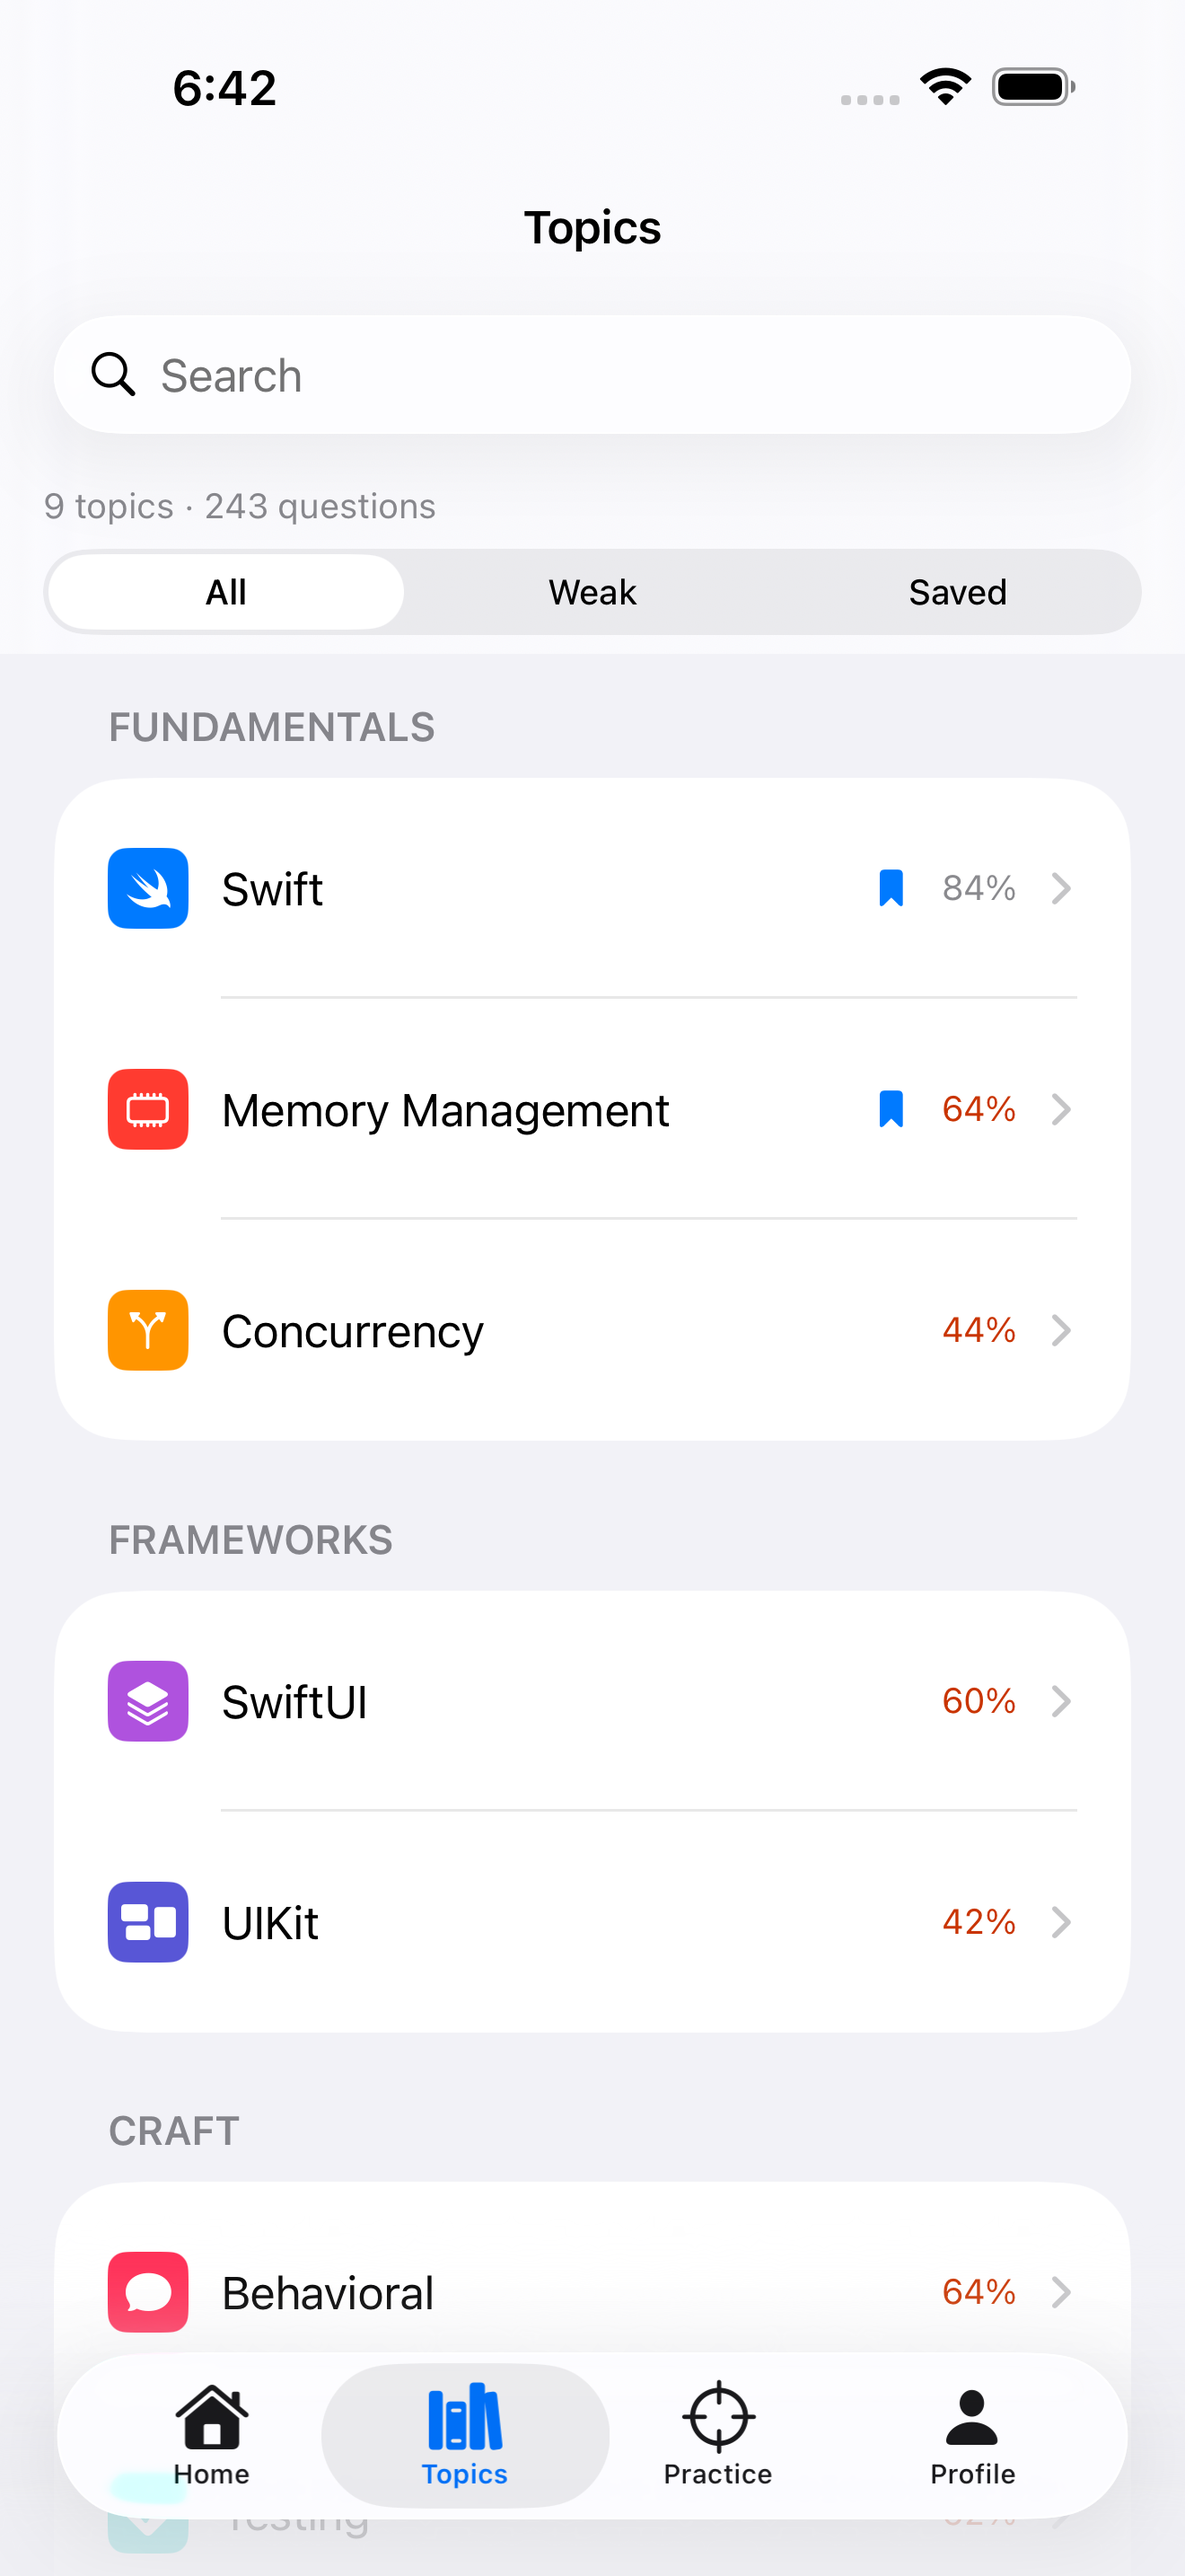
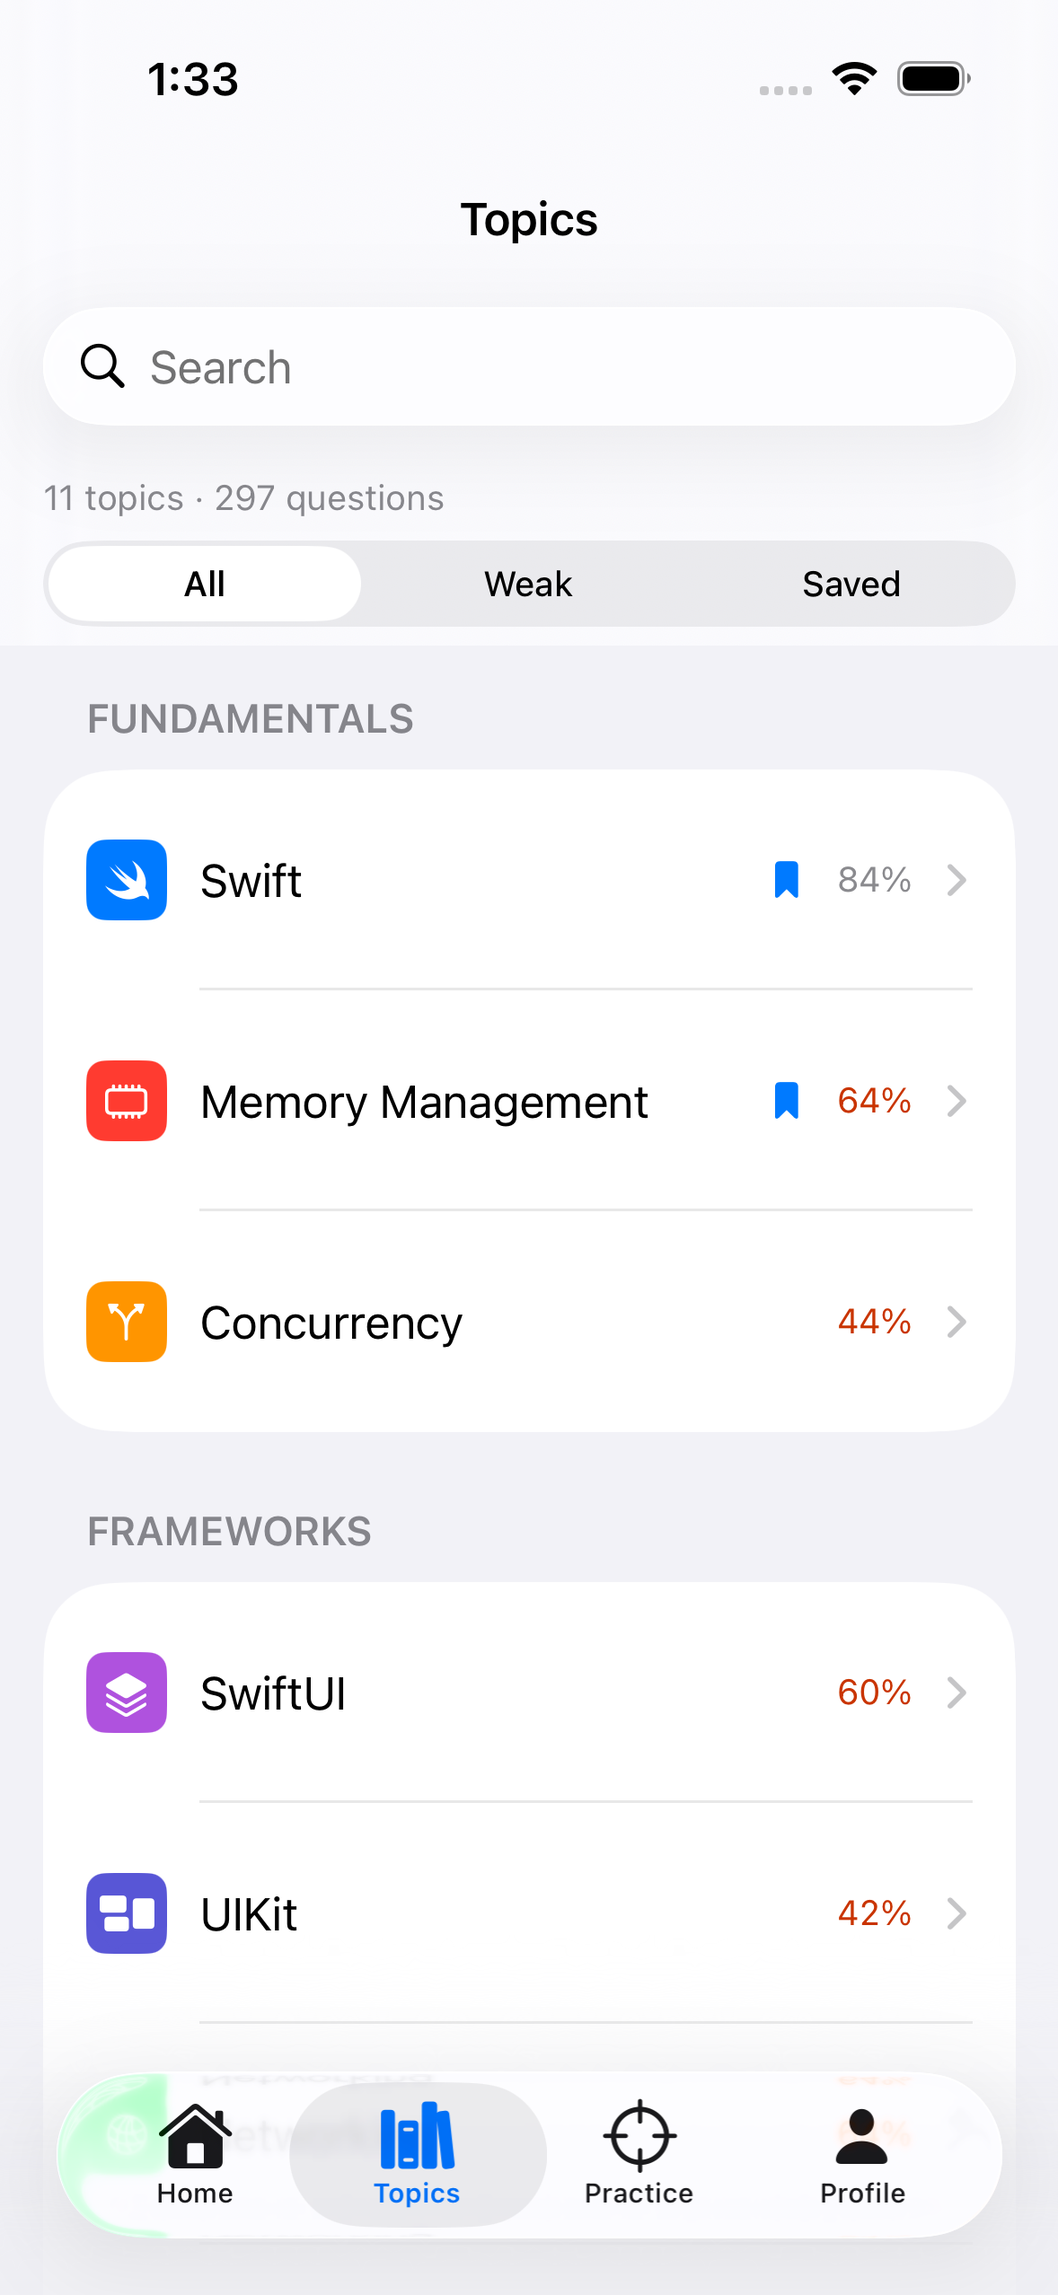
test: fix craft-renumber UI test fragility, regenerate store screenshots
The Phase 3 craft-section renumber (behavioral 5→7 etc.) pushed several
topic rows below the fold, surfacing two pre-existing UI-test gaps rather
than causing new bugs:

- SwiftUI's List doesn't materialize an off-screen row's accessibility
  element at all until scrolled into view, so a hardcoded row index fix
  alone left BehavioralDrillTests/QuestionTextRenderingTests hanging on
  waitForExistence. Added scroll-while-!exists loops before the existing
  scroll-while-!isHittable ones.
- LessonContinueTests' review-path gap row can report isHittable == true
  from XCUITest even while fully hidden behind the pinned bottom bar on a
  short review entry, so a centre tap lands on the bar instead. Forced a
  pre-scroll before tapping it.

docs/store-assets/ios/*.png regenerated by ScreenshotTests to reflect the
11-topic content bundle.

diff --git a/Tests/CallbackUITests/QuestionTextRenderingTests.swift b/Tests/CallbackUITests/QuestionTextRenderingTests.swift
@@ -38,8 +38,16 @@ final class QuestionTextRenderingTests: XCTestCase {
                      _ element: XCUIElement,
                      _ what: String,
                      expecting outcome: XCUIElement) {
-        XCTAssertTrue(element.waitForExistence(timeout: 45), "\(what) never appeared")
         let scroll = scrollContainer(app)
+        // A row below the fold doesn't just fail `isHittable` — SwiftUI's List
+        // doesn't materialize its accessibility element at all until scrolled
+        // into view, so `waitForExistence` alone can hang until timeout.
+        var existenceScrolls = 0
+        while !element.exists && existenceScrolls < 8 && scroll.exists {
+            scroll.swipeUp()
+            existenceScrolls += 1
+        }
+        XCTAssertTrue(element.waitForExistence(timeout: 45), "\(what) never appeared")
         var scrolls = 0
         while !element.isHittable && scrolls < 8 && scroll.exists {
             scroll.swipeUp()
@@ -105,7 +113,7 @@ final class QuestionTextRenderingTests: XCTestCase {
     /// untouched topic is exactly 50% mastery.
     func testBehavioralQuickCheckCanBeSelfRated() throws {
         let app = launch()
-        openTopic(app, row: 5, named: "Behavioral")
+        openTopic(app, row: 7, named: "Behavioral")
 
         tap(app, app.buttons["lesson-row-0"], "the first Behavioral lesson row",
             expecting: app.scrollViews.firstMatch)
@@ -135,7 +143,7 @@ final class QuestionTextRenderingTests: XCTestCase {
         XCTAssertTrue(app.navigationBars["Behavioral"].waitForExistence(timeout: 20))
         app.navigationBars.buttons.element(boundBy: 0).tap()
 
-        let behavioralRow = app.buttons["topic-row-5"]
+        let behavioralRow = app.buttons["topic-row-7"]
         XCTAssertTrue(behavioralRow.waitForExistence(timeout: 20))
         XCTAssertTrue(behavioralRow.staticTexts["50%"].waitForExistence(timeout: 20),
                       "a Decent self-rating should score the topic at 50% mastery, row reads: "

diff --git a/Tests/CallbackUITests/BehavioralDrillTests.swift b/Tests/CallbackUITests/BehavioralDrillTests.swift
@@ -20,8 +20,16 @@ final class BehavioralDrillTests: XCTestCase {
     func testBehavioralDrillCanBeCompletedEndToEnd() throws {
         app.tabBars.buttons["Topics"].tap()
 
-        // Behavioral is order 5 (last of 6 topics) in the shipping content bundle.
-        let behavioralRow = app.buttons["topic-row-5"]
+        // Behavioral is order 7 (first of the craft section) in the 11-topic content bundle,
+        // which now sits below the fold — the List doesn't materialize its accessibility
+        // element until scrolled into view, so waitForExistence alone isn't enough.
+        let behavioralRow = app.buttons["topic-row-7"]
+        let list = app.collectionViews.firstMatch
+        var scrolls = 0
+        while !behavioralRow.exists && scrolls < 8 && list.exists {
+            list.swipeUp()
+            scrolls += 1
+        }
         XCTAssertTrue(behavioralRow.waitForExistence(timeout: 10))
         behavioralRow.tap()
 

diff --git a/Tests/CallbackUITests/LessonContinueTests.swift b/Tests/CallbackUITests/LessonContinueTests.swift
@@ -184,6 +184,13 @@ final class LessonContinueTests: XCTestCase {
             }
         }
 
+        // On a short review entry, this row can sit fully behind the pinned
+        // Next review/Retry bar without ever failing `isHittable` — XCUITest
+        // reports it hittable at its true (occluded) position, so a tap there
+        // lands on the bar instead. Force it clear of the fold before tapping.
+        let reviewScroll = scrollContainer(app)
+        for _ in 0..<3 where reviewScroll.exists { reviewScroll.swipeUp() }
+
         tap(app, gapRow, "the covers-this-gap row",
             expecting: app.buttons["lesson-up-next"],
             "the covers-this-gap row did not open a lesson with a way on")
